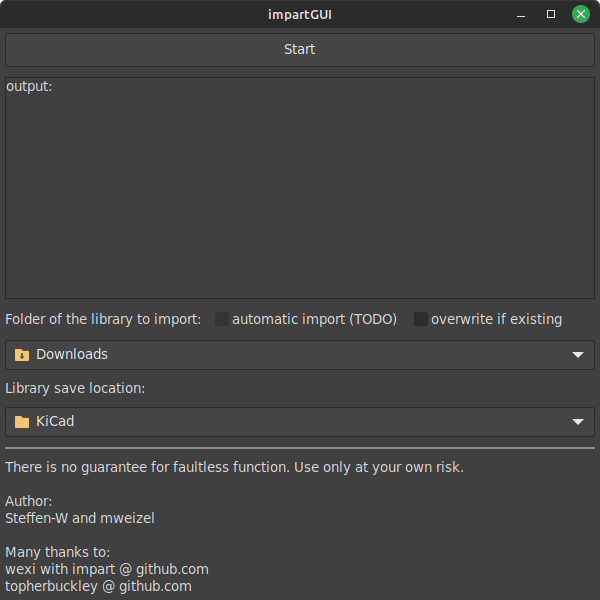
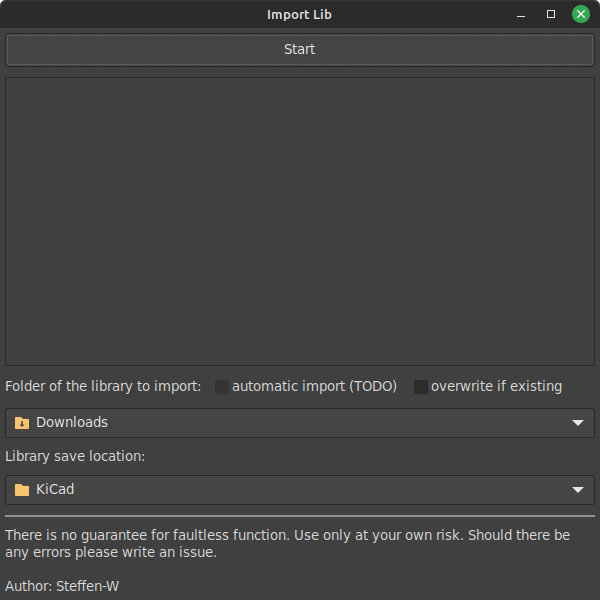
small changes

diff --git a/plugins/impartGUI.py b/plugins/impartGUI.py
@@ -95,10 +95,10 @@ class GUI_functions():
 class impartGUI (wx.Frame, GUI_functions):
 
     def __init__(self, parent):
-        wx.Frame.__init__(self, parent, id=wx.ID_ANY, title=u"impartGUI", pos=wx.DefaultPosition, size=wx.Size(
+        wx.Frame.__init__(self, parent, id=wx.ID_ANY, title=u"Import Lib", pos=wx.DefaultPosition, size=wx.Size(
             600, 600), style=wx.DEFAULT_FRAME_STYLE | wx.TAB_TRAVERSAL)
 
-        self.SetSizeHints(wx.Size(150, 150), wx.Size(600, 1000))
+        self.SetSizeHints(wx.Size(150, 150), wx.Size(-1, -1))
         self.SetFont(wx.Font(wx.NORMAL_FONT.GetPointSize(), wx.FONTFAMILY_DEFAULT,
                      wx.FONTSTYLE_NORMAL, wx.FONTWEIGHT_NORMAL, False, wx.EmptyString))
         self.SetForegroundColour(
@@ -113,7 +113,7 @@ class impartGUI (wx.Frame, GUI_functions):
         bSizer1.Add(self.m_button, 0, wx.ALL |
                     wx.ALIGN_CENTER_HORIZONTAL | wx.EXPAND, 5)
 
-        self.m_text = wx.TextCtrl(self, wx.ID_ANY, u"output:\n", wx.DefaultPosition,
+        self.m_text = wx.TextCtrl(self, wx.ID_ANY, wx.EmptyString, wx.DefaultPosition,
                                   wx.DefaultSize, wx.HSCROLL | wx.TE_LEFT | wx.TE_MULTILINE | wx.TE_READONLY)
         bSizer1.Add(self.m_text, 1, wx.ALL | wx.EXPAND, 5)
 
@@ -166,7 +166,7 @@ class impartGUI (wx.Frame, GUI_functions):
         bSizer1.Add(self.m_staticline1, 0, wx.EXPAND | wx.ALL, 5)
 
         self.m_staticText5 = wx.StaticText(
-            self, wx.ID_ANY, u"There is no guarantee for faultless function. Use only at your own risk.\n\nAuthor:\nSteffen-W and mweizel\n\nMany thanks to:\nwexi with impart @ github.com\ntopherbuckley @ github.com", wx.DefaultPosition, wx.DefaultSize, 0)
+            self, wx.ID_ANY, u"There is no guarantee for faultless function. Use only at your own risk. Should there be any errors please write an issue.\n\nAuthor: Steffen-W \n", wx.DefaultPosition, wx.DefaultSize, 0)
         self.m_staticText5.Wrap(-1)
 
         bSizer1.Add(self.m_staticText5, 0, wx.ALL | wx.EXPAND, 5)

diff --git a/README.md b/README.md
@@ -4,9 +4,11 @@ Assembles KiCad "legacy" format component libraries from downloaded
 [Octopart](https://octopart.com/), [Samacsys](https://componentsearchengine.com/), [Ultralibrarian](https://app.ultralibrarian.com/search) and [Snapeda](https://www.snapeda.com/home/) zipfiles. Imports symbol, footprint, description and if available 3D file. Normally, when you select the imported symbol in KiCad 7, the appropriate footprint and the 3D file should also be linked. Provided, of course, that the libraries have been included as specified below. 
 
 ## Warranty
+
 **None. Zero. Zilch. Use at your own risk, and please be sure to use git or some other means of backing up/reverting changes caused by this script. This script will modify existing lib, dcm, footprint or 3D model files. It is your responsiblity to back them up or have a way to revert changes should you inadvertantly mess something up using this tool** 
 
 ## Installation
+
 The easiest way to install is to open **KiCad** -> **Plugin And Content Manager**. Select **Import-LIB-KiCad-Plugin** in the Plugins tab, press **Install** and then **Apply Pending Changes**.
 
 ## Use of the application
@@ -55,7 +57,12 @@ KiCad versions
 Please write an issues if an import does not work as requested.
 
 ## To DO
+
 - [ ] Automatic background import
 - [ ] Testing all library formats
 - [ ] Test on a Mac
 - [ ] Using the new KiCad format
+
+## Many thanks to
+
+[wexi with impart](https://github.com/wexi/impart) and [topherbuckley](https://github.com/topherbuckley/kicad_remote_import) for the code on which the GUI is based.
